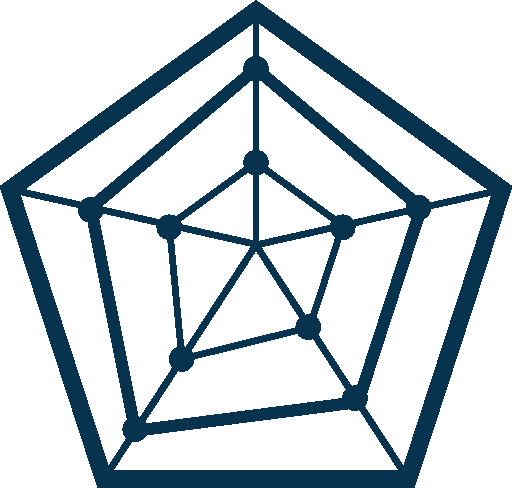
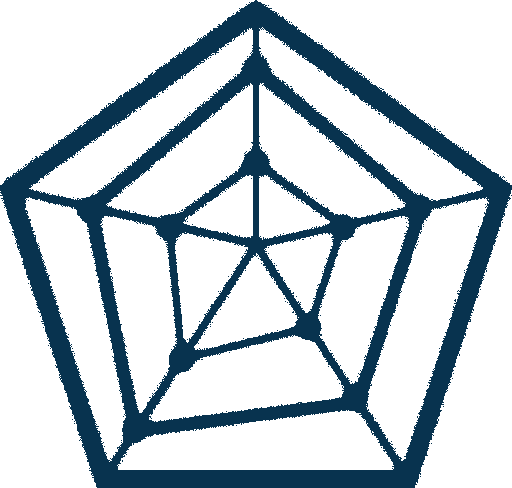
home - featured by

diff --git a/app/assets/stylesheets/index.css.scss b/app/assets/stylesheets/index.css.scss
@@ -16,7 +16,7 @@
 } 
 
 #chart-graphic {
-	background: url(/images/radarchartblue.png) center center no-repeat;
+	background: url(/images/radarchart.png) center center no-repeat;
 	height:100%;
 	width:100%;
 }
